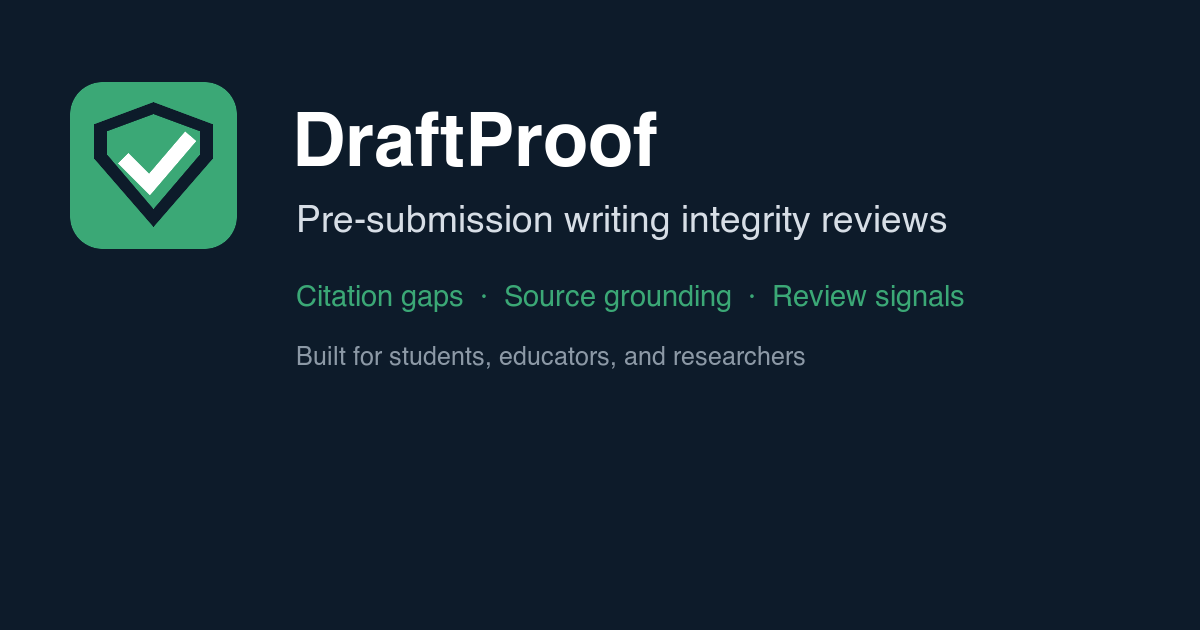
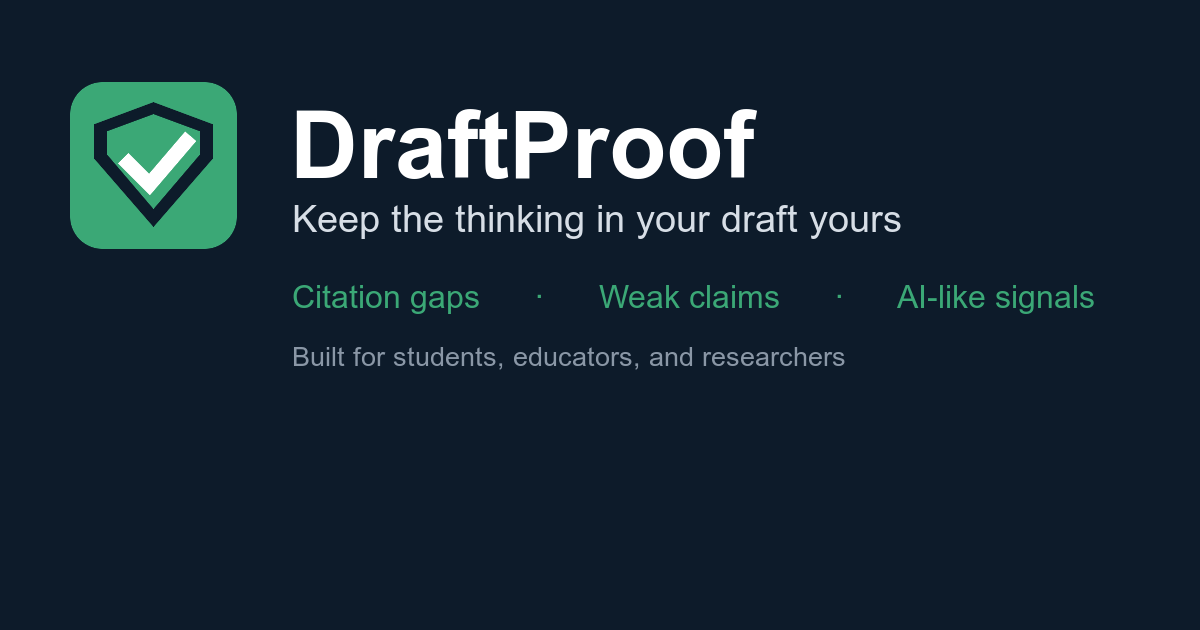
Reframe social share card to the authorship angle (text + OG image)
Align the link-preview card with the new "still yours / control of the
thinking" hero positioning:

- Homepage SEO/OG title -> "Keep the Thinking in Your Draft Yours | DraftProof"
  and description rewritten around claims you can't back up, AI-like passages,
  and source gaps (en + zh).
- Regenerate public/og-image.png: keep the logo, swap the tagline to "Keep the
  thinking in your draft yours" and the pills to "Citation gaps · Weak claims ·
  AI-like signals". Add scripts/generate-og-image.sh to reproduce it.
- Bump DEFAULT_IMAGE to og-image.png?v=2 so social scrapers (which cache by URL)
  re-fetch the updated card instead of serving the stale image.

Changed region(s): [[0.2467, 0.1508, 0.8017, 0.3921], [0.2467, 0.4524, 0.925, 0.5127], [0.2467, 0.5429, 0.7092, 0.6032]]

diff --git a/draftproof-frontend/src/i18n/en/seo.js b/draftproof-frontend/src/i18n/en/seo.js
@@ -1,6 +1,6 @@
 export const seo = {
-  "defaultTitle": "Essay Integrity & Critical Thinking Check | DraftProof",
-  "defaultDescription": "Find citation gaps, weak claims, source issues, and AI-like writing in your draft — plus reflective questions that keep you in control of the thinking — before it is reviewed.",
+  "defaultTitle": "Keep the Thinking in Your Draft Yours | DraftProof",
+  "defaultDescription": "Find the claims you can’t back up, the passages that read as AI, and the source gaps in your draft — plus reflective questions that keep you, not the AI, in control of the thinking before submission.",
   "whyTitle": "Why Human-Written Content Can Look AI-Generated | DraftProof",
   "whyDescription": "See why human-written content can trigger AI-like signals and how DraftProof helps students review evidence, sources, and phrasing before submission.",
   "essayCheckerTitle": "Content Checker for Citations and AI-Like Writing | DraftProof",

diff --git a/draftproof-frontend/src/i18n/zh/seo.js b/draftproof-frontend/src/i18n/zh/seo.js
@@ -1,6 +1,6 @@
 export const seo = {
-  "defaultTitle": "论文完整性与批判性思维检查 | DraftProof",
-  "defaultDescription": "提交前用 DraftProof 检查引用缺口、来源支撑薄弱、相似度风险和类似 AI 的写作，并用深化思考的提问，让你主导思考。",
+  "defaultTitle": "让草稿里的思考依然属于你 | DraftProof",
+  "defaultDescription": "找出草稿中你还无法支撑的论断、读起来像 AI 的段落，以及来源缺口，并用深化思考的提问，让你——而不是 AI——在提交前主导思考。",
   "whyTitle": "为什么人类亲自写的内容也可能看起来像 AI 生成 | DraftProof",
   "whyDescription": "了解人类亲自写的内容为什么也可能触发类似 AI 的信号，以及 DraftProof 如何帮助学生在提交前审阅证据、来源和表达。",
   "essayCheckerTitle": "内容引用、来源与 AI 风格写作检查 | DraftProof",

diff --git a/draftproof-frontend/src/seoMetadata.js b/draftproof-frontend/src/seoMetadata.js
@@ -14,7 +14,9 @@ const configuredSiteUrl =
   || 'https://draftproof.app';
 
 export const SITE_URL = normalizeSiteUrl(configuredSiteUrl);
-export const DEFAULT_IMAGE = `${SITE_URL}/og-image.png`;
+// ?v bumped whenever og-image.png is regenerated so social scrapers (which
+// cache by URL) re-fetch the updated card instead of serving a stale image.
+export const DEFAULT_IMAGE = `${SITE_URL}/og-image.png?v=2`;
 export const SITE_NAME = 'DraftProof';
 export const SEO_REVIEW_DATE = '2026-06-05';
 // Homepage reviewed separately when the Critical Thinking module was surfaced.
